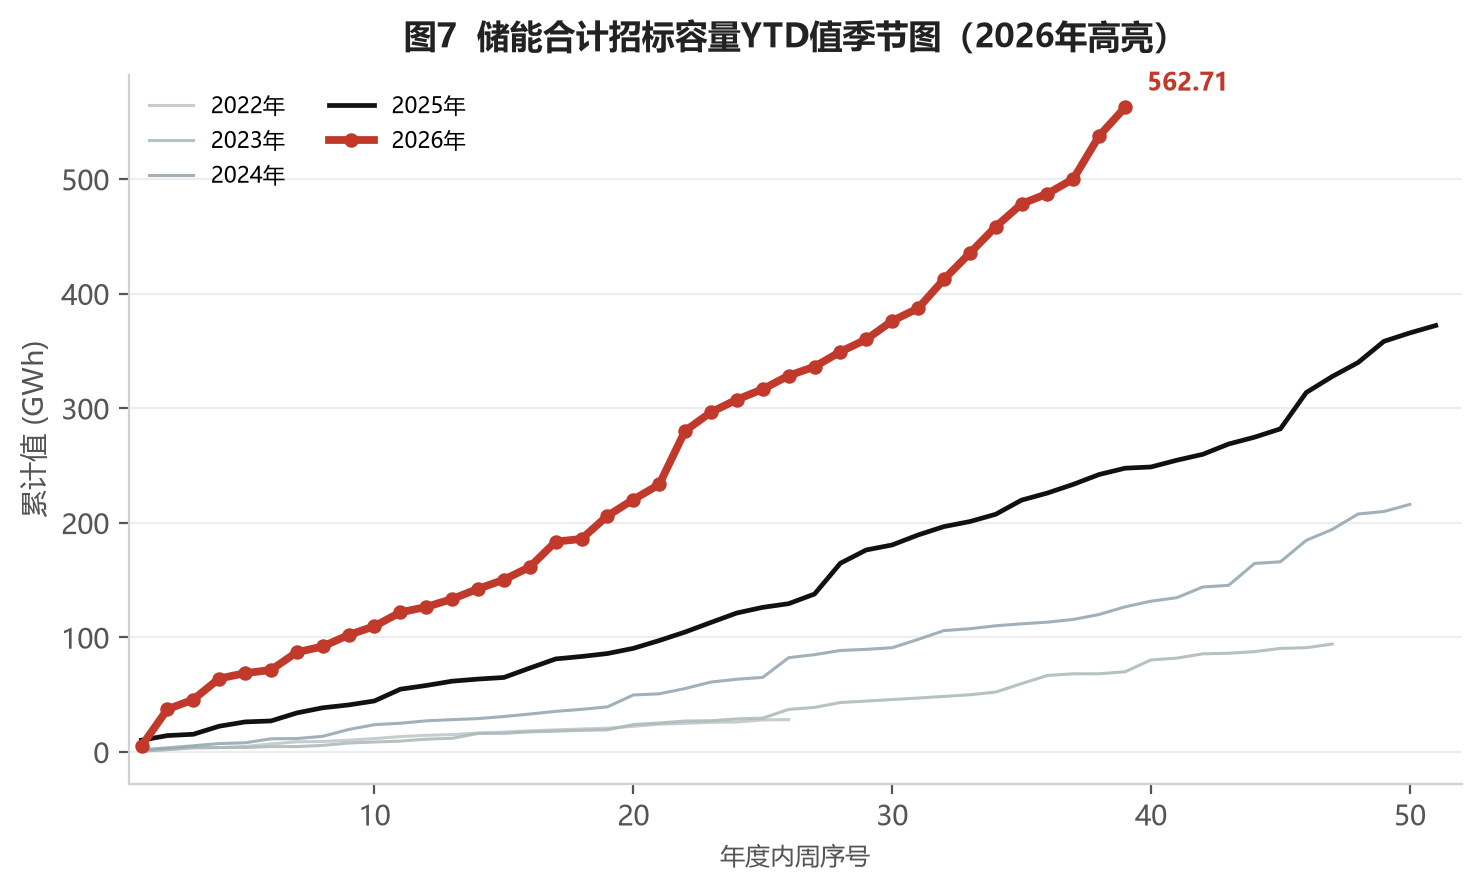
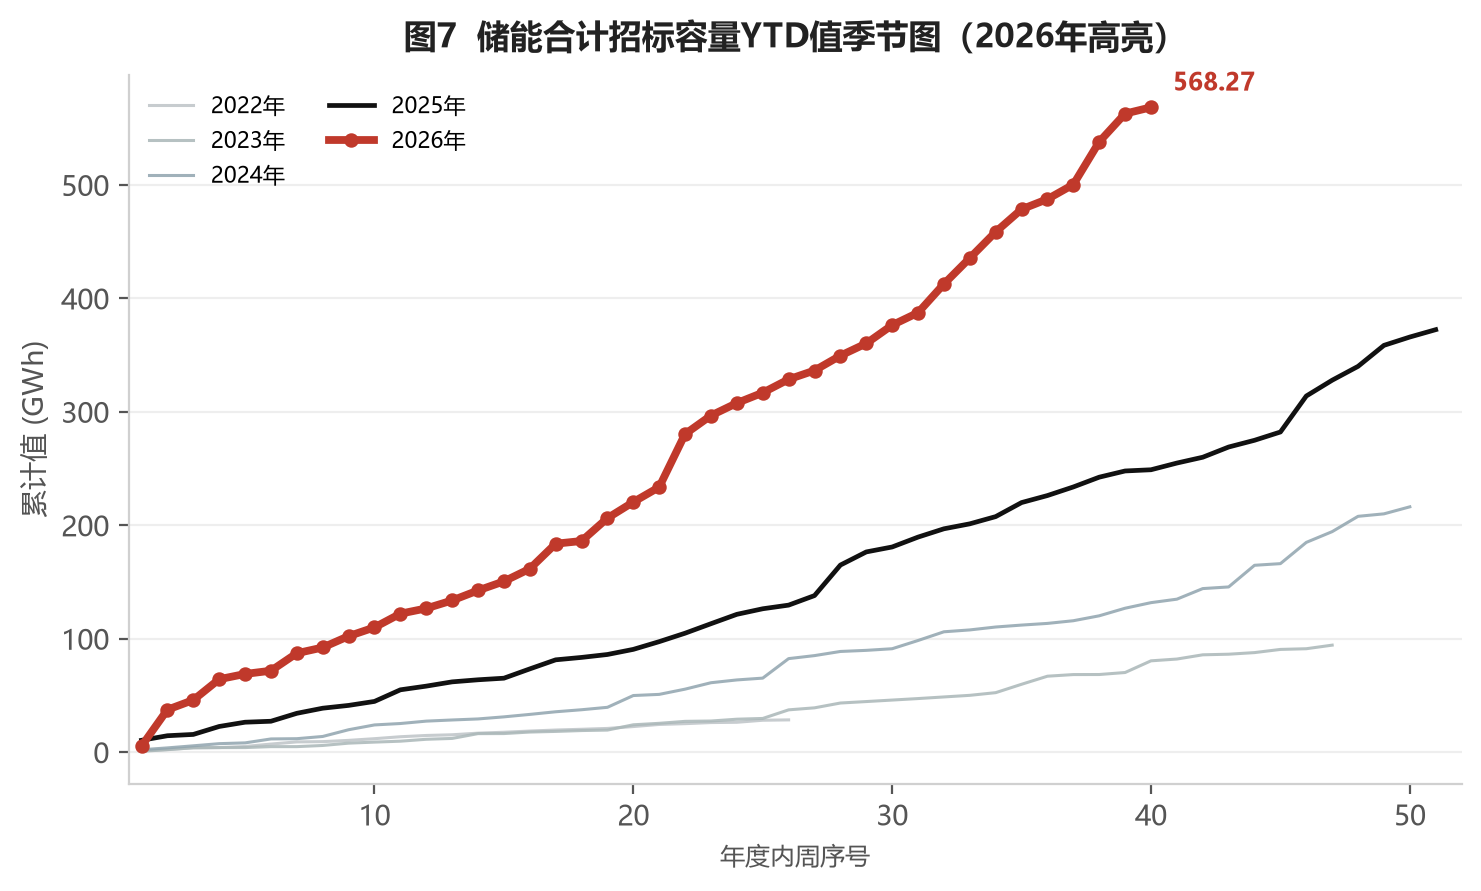
update weekly report 2026-10-11

diff --git a/docs/index.html b/docs/index.html
@@ -3,7 +3,7 @@
 <head>
 <meta charset="UTF-8" />
 <meta name="viewport" content="width=device-width, initial-scale=1.0" />
-<title>储能行业周报 · 储能招中标板块（2026-10-02）</title>
+<title>储能行业周报 · 储能招中标板块（2026-10-09）</title>
 <meta name="description" content="储能行业周度招中标数据报告：周度规模、累计规模、EPC/系统分项、中标价格走势。" />
 <style>
 :root {
@@ -52,13 +52,13 @@ footer{text-align:center;color:var(--muted);font-size:12px;padding:26px 0;
 <header class="hero">
   <div class="container">
     <h1>储能行业周报 · 储能招中标板块</h1>
-    <div class="meta">数据周期：2022-07-01 ~ 2026-10-02 · 本周：2026-09-26 至 2026-10-02（2026年第39周）· 共 213 周数据 · 生成于 2026-10-06 18:49:01</div>
+    <div class="meta">数据周期：2022-07-01 ~ 2026-10-09 · 本周：2026-10-03 至 2026-10-09（2026年第40周）· 共 214 周数据 · 生成于 2026-10-11 18:11:04</div>
   </div>
 </header>
 <div class="container">
     <section class="sec">
       <h2>一、中国|储能周度招中标</h2>
-      <div class="desc"><p class="d">本周：2026-09-26 至 2026-10-02</p><p class="d">招标项目 <b>52</b> 个，规模合计 <b>8.37</b>GW/<b>24.88</b>GWh，环比 <span class="chg up">+46.2%</span>/<span class="chg down">-33.9%</span>，同比 <span class="chg up">+179.5%</span>/<span class="chg up">+354.1%</span>。</p><p class="d">中标项目 <b>40</b> 个，规模合计 <b>7.79</b>GW/<b>29.99</b>GWh，环比 <span class="chg down">-19.3%</span>/<span class="chg up">+2.9%</span>，同比 <span class="chg up">+43.6%</span>/<span class="chg up">+42.5%</span>。</p></div>
+      <div class="desc"><p class="d">本周：2026-10-03 至 2026-10-09</p><p class="d">招标项目 <b>16</b> 个，规模合计 <b>1.92</b>GW/<b>5.56</b>GWh，环比 <span class="chg down">-77.0%</span>/<span class="chg down">-77.7%</span>，同比 <span class="chg up">+171.6%</span>/<span class="chg up">+421.1%</span>。</p><p class="d">中标项目 <b>25</b> 个，规模合计 <b>3.01</b>GW/<b>8.32</b>GWh，环比 <span class="chg down">-61.3%</span>/<span class="chg down">-72.3%</span>，同比 <span class="chg up">+1.7%</span>/<span class="chg down">-21.0%</span>。</p></div>
       <div class="charts">
       <figure class="fig"><img src="assets/images/fig_01.png" alt="图1：储能合计招标功率当周值季节图" loading="lazy" /></figure>
       <figure class="fig"><img src="assets/images/fig_02.png" alt="图2：储能合计中标功率当周值季节图" loading="lazy" /></figure>
@@ -69,7 +69,7 @@ footer{text-align:center;color:var(--muted);font-size:12px;padding:26px 0;
 
     <section class="sec">
       <h2>二、中国|储能周度招中标（累计）</h2>
-      <div class="desc"><p class="d">截至 2026-10-02</p><p class="d">招标累计规模 <b>162.93</b>GW/<b>562.71</b>GWh，环比 <span class="chg up">+5.4%</span>/<span class="chg up">+4.6%</span>，同比 <span class="chg up">+106.3%</span>/<span class="chg up">+127.2%</span>。</p><p class="d">中标累计规模 <b>179.82</b>GW/<b>683.51</b>GWh，环比 <span class="chg up">+4.5%</span>/<span class="chg up">+4.6%</span>，同比 <span class="chg up">+47.8%</span>/<span class="chg up">+54.7%</span>。</p></div>
+      <div class="desc"><p class="d">截至 2026-10-09</p><p class="d">招标累计规模 <b>164.85</b>GW/<b>568.27</b>GWh，环比 <span class="chg up">+1.2%</span>/<span class="chg up">+1.0%</span>，同比 <span class="chg up">+106.9%</span>/<span class="chg up">+128.4%</span>。</p><p class="d">中标累计规模 <b>182.83</b>GW/<b>691.83</b>GWh，环比 <span class="chg up">+1.7%</span>/<span class="chg up">+1.2%</span>，同比 <span class="chg up">+46.7%</span>/<span class="chg up">+53.0%</span>。</p></div>
       <div class="charts">
       <figure class="fig"><img src="assets/images/fig_05.png" alt="图5：储能合计招标功率YTD值季节图" loading="lazy" /></figure>
       <figure class="fig"><img src="assets/images/fig_06.png" alt="图6：储能合计中标功率YTD值季节图" loading="lazy" /></figure>
@@ -80,7 +80,7 @@ footer{text-align:center;color:var(--muted);font-size:12px;padding:26px 0;
 
     <section class="sec">
       <h2>三、储能EPC招中标规模（周度）</h2>
-      <div class="desc"><p class="d">本周：2026-09-26 至 2026-10-02</p><p class="d">储能EPC<b>招标</b>：<b>7.93</b>GW/<b>23.60</b>GWh，环比 <span class="chg up">+67.3%</span>/<span class="chg down">-31.2%</span>，同比 <span class="chg up">+172.6%</span>/<span class="chg up">+344.6%</span>；本年累计<b>招标</b> <b>135.11</b>GW/<b>396.83</b>GWh，同比 <span class="chg up">+115.6%</span>/<span class="chg up">+121.7%</span>。</p><p class="d">储能EPC<b>中标</b>：<b>6.90</b>GW/<b>19.93</b>GWh，环比 <span class="chg down">-19.3%</span>/<span class="chg down">-20.9%</span>，同比 <span class="chg up">+51.0%</span>/<span class="chg up">+22.0%</span>；本年累计<b>中标</b> <b>148.70</b>GW/<b>436.28</b>GWh，同比 <span class="chg up">+90.4%</span>/<span class="chg up">+96.1%</span>。</p></div>
+      <div class="desc"><p class="d">本周：2026-10-03 至 2026-10-09</p><p class="d">储能EPC<b>招标</b>：<b>1.62</b>GW/<b>4.61</b>GWh，环比 <span class="chg down">-79.6%</span>/<span class="chg down">-80.5%</span>，同比 <span class="chg up">+128.4%</span>/<span class="chg up">+332.2%</span>；本年累计<b>招标</b> <b>136.72</b>GW/<b>401.44</b>GWh，同比 <span class="chg up">+115.8%</span>/<span class="chg up">+122.9%</span>。</p><p class="d">储能EPC<b>中标</b>：<b>2.67</b>GW/<b>7.09</b>GWh，环比 <span class="chg down">-61.3%</span>/<span class="chg down">-64.4%</span>，同比 <span class="chg up">+34.6%</span>/<span class="chg up">+32.1%</span>；本年累计<b>中标</b> <b>151.37</b>GW/<b>443.37</b>GWh，同比 <span class="chg up">+89.0%</span>/<span class="chg up">+94.6%</span>。</p></div>
       <div class="charts cols4">
       <figure class="fig"><img src="assets/images/fig_09.png" alt="图9：储能EPC招标功率当周值季节图" loading="lazy" /></figure>
       <figure class="fig"><img src="assets/images/fig_10.png" alt="图10：储能EPC招标功率YTD值季节图" loading="lazy" /></figure>
@@ -95,7 +95,7 @@ footer{text-align:center;color:var(--muted);font-size:12px;padding:26px 0;
 
     <section class="sec">
       <h2>四、储能系统招中标规模（周度）</h2>
-      <div class="desc"><p class="d">本周：2026-09-26 至 2026-10-02</p><p class="d">储能系统<b>招标</b>：<b>0.44</b>GW/<b>1.28</b>GWh，环比 <span class="chg down">-55.4%</span>/<span class="chg down">-61.6%</span>，同比 <span class="chg up">+418.1%</span>/<span class="chg up">+652.8%</span>；本年累计<b>招标</b> <b>24.62</b>GW/<b>132.85</b>GWh，同比 <span class="chg up">+47.9%</span>/<span class="chg up">+93.5%</span>。</p><p class="d">储能系统<b>中标</b>：<b>0.89</b>GW/<b>10.07</b>GWh，环比 <span class="chg down">-19.4%</span>/<span class="chg up">+154.0%</span>，同比 <span class="chg up">+4.3%</span>/<span class="chg up">+113.1%</span>；本年累计<b>中标</b> <b>28.38</b>GW/<b>202.10</b>GWh，同比 <span class="chg down">-35.0%</span>/<span class="chg down">-15.2%</span>。</p></div>
+      <div class="desc"><p class="d">本周：2026-10-03 至 2026-10-09</p><p class="d">储能系统<b>招标</b>：<b>0.31</b>GW/<b>0.95</b>GWh，环比 <span class="chg down">-30.5%</span>/<span class="chg down">-25.9%</span>，同比 <span class="chg na">—</span>/<span class="chg na">—</span>；本年累计<b>招标</b> <b>24.93</b>GW/<b>133.80</b>GWh，同比 <span class="chg up">+49.7%</span>/<span class="chg up">+94.8%</span>。</p><p class="d">储能系统<b>中标</b>：<b>0.34</b>GW/<b>1.23</b>GWh，环比 <span class="chg down">-61.5%</span>/<span class="chg down">-87.8%</span>，同比 <span class="chg down">-65.1%</span>/<span class="chg down">-76.1%</span>；本年累计<b>中标</b> <b>28.72</b>GW/<b>203.34</b>GWh，同比 <span class="chg down">-35.7%</span>/<span class="chg down">-16.5%</span>。</p></div>
       <div class="charts cols4">
       <figure class="fig"><img src="assets/images/fig_17.png" alt="图17：储能系统招标功率当周值季节图" loading="lazy" /></figure>
       <figure class="fig"><img src="assets/images/fig_18.png" alt="图18：储能系统招标功率YTD值季节图" loading="lazy" /></figure>
@@ -110,7 +110,7 @@ footer{text-align:center;color:var(--muted);font-size:12px;padding:26px 0;
 
     <section class="sec">
       <h2>五、储能价格（周度）</h2>
-      <div class="desc"><p class="d">本周：2026-09-26 至 2026-10-02</p><p class="d">储能EPC中标报价区间：【<b>0.5654</b>-<b>1.2284</b>】元/Wh，储能EPC中标均价 <b>0.9372</b> 元/Wh（环比 <span class="chg down">-2.8%</span>，同比 <span class="chg down">-3.4%</span>）。</p><p class="d">储能系统中标报价区间：【<b>0.4995</b>-<b>1.1906</b>】元/Wh，储能系统中标均价 <b>0.6290</b> 元/Wh（环比 <span class="chg up">+3.2%</span>，同比 <span class="chg down">-19.3%</span>）。</p></div>
+      <div class="desc"><p class="d">本周：2026-10-03 至 2026-10-09</p><p class="d">储能EPC中标报价区间：【<b>0.6680</b>-<b>1.2164</b>】元/Wh，储能EPC中标均价 <b>0.9431</b> 元/Wh（环比 <span class="chg up">+0.6%</span>，同比 <span class="chg down">-1.7%</span>）。</p><p class="d">储能系统中标报价区间：【<b>0.5695</b>-<b>2.1000</b>】元/Wh，储能系统中标均价 <b>1.2875</b> 元/Wh（环比 <span class="chg up">+104.7%</span>，同比 <span class="chg up">+152.5%</span>）。</p></div>
       <div class="charts">
       <figure class="fig"><img src="assets/images/fig_25.png" alt="图25：储能系统中标均价季节图" loading="lazy" /></figure>
       <figure class="fig"><img src="assets/images/fig_26.png" alt="图26：储能EPC中标均价季节图" loading="lazy" /></figure>
